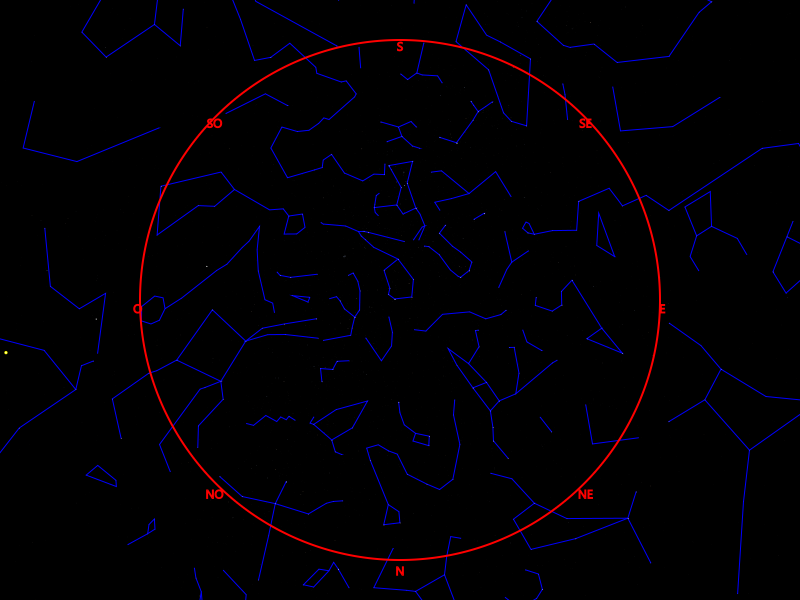
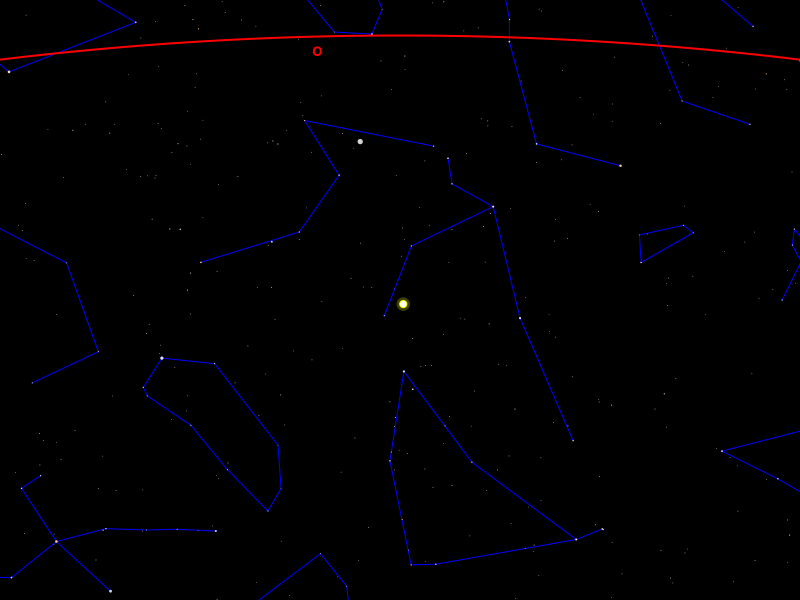
.

diff --git a/ProjetAstronomy/src/ch/epfl/rigel/gui/SkyCanvasPainter.java b/ProjetAstronomy/src/ch/epfl/rigel/gui/SkyCanvasPainter.java
@@ -48,8 +48,7 @@ public final class SkyCanvasPainter {
 	public void drawStars(ObservedSky observedSky, StereographicProjection projection, Transform transform) throws IOException {
 		//Transforming all stars positions accoridng to the affine transformation.
 		double[] transformedCoords = new double[observedSky.starPositions().length];
-		transform.transform2DPoints(observedSky.starPositions(), 0, transformedCoords, 0, transformedCoords.length/2);
-		
+		transform.transform2DPoints(observedSky.starPositions(), 0, transformedCoords, 0, transformedCoords.length/2);		
 		
 		//Drawing the asterisms.
 		
@@ -57,7 +56,9 @@ public final class SkyCanvasPainter {
 		ctx.setStroke(Color.BLUE);
 		//Set stroke width to 1.
 		ctx.setLineWidth(1);
+		
 		Bounds bound = canvas.getBoundsInLocal();
+		
 		for (Asterism asterism : observedSky.asterisms()) {
 		    boolean previousIscontained = false;
 		    ctx.beginPath();
@@ -87,14 +88,14 @@ public final class SkyCanvasPainter {
 			Point2D transformedSize = transform.deltaTransform(0, d);
 			
 			//Defining the star coordinates.
-			Double starX = transformedCoords[observedSky.stars().indexOf(star)*2];
-			Double starY = transformedCoords[observedSky.stars().indexOf(star)*2+ 1];
+			Double ajustedStarX = ajustedCoordinate(transformedCoords[observedSky.stars().indexOf(star)*2], transformedSize.magnitude());
+			Double ajustedStarY = ajustedCoordinate(transformedCoords[observedSky.stars().indexOf(star)*2+ 1], transformedSize.magnitude());
 
 			//Set the color to the star's one based on it's color temperature.
 			ctx.setFill(BlackBodyColor.colorForTemperature(star.colorTemperature()));
 			
 			//Drawing the star.
-			ctx.fillOval(starX, starY, transformedSize.magnitude(), transformedSize.magnitude());
+			ctx.fillOval(ajustedStarX, ajustedStarY, transformedSize.magnitude(), transformedSize.magnitude());
 		}
 	}
 	
@@ -120,11 +121,11 @@ public final class SkyCanvasPainter {
 			Point2D transformedSize = transform.deltaTransform(0,d);
 			
 			//Defining the planet's coordinates.
-			Double planetX = transformedCoords[observedSky.planets().indexOf(planet) * 2];
-			Double planetY = transformedCoords[observedSky.planets().indexOf(planet) * 2 + 1];
+			Double ajustedPlanetX = ajustedCoordinate(transformedCoords[observedSky.planets().indexOf(planet) * 2], transformedSize.magnitude());
+			Double ajustedPlanetY = ajustedCoordinate(transformedCoords[observedSky.planets().indexOf(planet) * 2 + 1], transformedSize.magnitude());
 			
 			//Drawing the planet on the canvas.
-			ctx.fillOval(planetX, planetY, transformedSize.magnitude(), transformedSize.magnitude());
+			ctx.fillOval(ajustedPlanetX, ajustedPlanetY, transformedSize.magnitude(), transformedSize.magnitude());
 		}
 		
 		
@@ -132,42 +133,45 @@ public final class SkyCanvasPainter {
 	
 	public void drawSun(ObservedSky observedSky, StereographicProjection projection, Transform transform) {
 		Point2D sunPos = transform.transform(observedSky.sunPosition().x(), observedSky.sunPosition().y());
-		double sunSize = projection.applyToAngle(observedSky.sun().angularSize()); //* (transform.getMxx() * 2);
-		double relSunSize = transform.deltaTransform(sunSize,0).magnitude();
+		double sunSize = projection.applyToAngle(observedSky.sun().angularSize()); 
+		double relativeSunSize = transform.deltaTransform(sunSize,0).magnitude();
+		double ajustedPosx = ajustedCoordinate(sunPos.getX(), relativeSunSize);
+        double ajustedPosy = ajustedCoordinate(sunPos.getY(), relativeSunSize);
 		
-		ctx.setFill(Color.YELLOW);
-        ctx.setGlobalAlpha(.25);
-		ctx.fillOval(sunPos.getX()-relSunSize*1.1, sunPos.getY()-relSunSize*1.1, relSunSize*2.2, relSunSize*2.2);
+		ctx.setFill(Color.YELLOW.deriveColor(0, 1, 1, 0.25));
+		ctx.fillOval(ajustedPosx - relativeSunSize*1.1, ajustedPosy - relativeSunSize*1.1, relativeSunSize*2.2, relativeSunSize*2.2);
 
-        ctx.setGlobalAlpha(1);
-        ctx.fillOval(sunPos.getX() - (relSunSize+2)/2 , sunPos.getY() - (relSunSize+2)/2, relSunSize+2, relSunSize+2);
+	    ctx.setFill(Color.YELLOW);
+        ctx.fillOval(ajustedPosx - (relativeSunSize+2)/2 , ajustedPosy - (relativeSunSize+2)/2, relativeSunSize+2, relativeSunSize+2);
 
 		ctx.setFill(Color.WHITE);
-		ctx.fillOval(sunPos.getX() - relSunSize/2, sunPos.getY() - relSunSize/2, relSunSize, relSunSize);
+		ctx.fillOval(ajustedPosx - relativeSunSize/2, ajustedPosy - relativeSunSize/2, relativeSunSize, relativeSunSize);
 	}
 	
 	public void drawMoon(ObservedSky observedSky, StereographicProjection projection, Transform transform) {
 		Point2D moonPos = transform.transform(observedSky.moonPosition().x(), observedSky.moonPosition().y());
 		double moonSize = projection.applyToAngle(observedSky.moon().angularSize());
-		Point2D relativeMoonSize = transform.deltaTransform(moonSize,moonSize);
+		Point2D relativeMoonSize = transform.deltaTransform(moonSize, 0);
+		double ajustedPosx = ajustedCoordinate(moonPos.getX(), relativeMoonSize.magnitude());
+		double ajustedPosy = ajustedCoordinate(moonPos.getY(), relativeMoonSize.magnitude());
         
 		ctx.setFill(Color.WHITE);
-		ctx.fillOval(moonPos.getX(), moonPos.getY(), relativeMoonSize.magnitude(), relativeMoonSize.magnitude());
+		ctx.fillOval(ajustedPosx, ajustedPosy, relativeMoonSize.magnitude(), relativeMoonSize.magnitude());
 	}
 	
 	public void drawHorizon(ObservedSky observedSky, StereographicProjection projection, Transform transform) {
 	    HorizontalCoordinates horizon = HorizontalCoordinates.ofDeg(0, 0);
 	    
-	    CartesianCoordinates horCoords = projection.circleCenterForParallel(horizon);
-	    Point2D transHorCoords = transform.transform(horCoords.x(), horCoords.y());
+	    CartesianCoordinates horizonCoords = projection.circleCenterForParallel(horizon);
+	    Point2D transHorizonCoords = transform.transform(horizonCoords.x(), horizonCoords.y());
 	    
-	    double horRadius = projection.circleRadiusForParallel(horizon);
-	    double transHorRadius = transform.deltaTransform(horRadius, 0).magnitude();
+	    double horizonRadius = projection.circleRadiusForParallel(horizon);
+	    double transHorizonRadius = transform.deltaTransform(horizonRadius, 0).magnitude();
 	    
 	    ctx.setStroke(Color.RED);
 	    ctx.setLineWidth(2);
-	    ctx.strokeOval(transHorCoords.getX() - transHorRadius, transHorCoords.getY() - transHorRadius,
-	            transHorRadius*2, transHorRadius*2);
+	    ctx.strokeOval(transHorizonCoords.getX() - transHorizonRadius, transHorizonCoords.getY() - transHorizonRadius,
+	            transHorizonRadius*2, transHorizonRadius*2);
 	    
 	    
 	    
@@ -175,11 +179,15 @@ public final class SkyCanvasPainter {
 	    ctx.setTextBaseline(VPos.BASELINE.TOP);
 	    ctx.setLineWidth(1);
 	    
-	    for(cardinalPoints card : cardinalPoints.values()) {
-	        CartesianCoordinates coord = card.getCartesianCoord(projection);
+	    for(cardinalPoints cardPoint : cardinalPoints.values()) {
+	        CartesianCoordinates coord = cardPoint.getCartesianCoord(projection);
 	        Point2D transCoord = transform.transform(coord.x(), coord.y());
-	        ctx.strokeText(card.getFrenchAbrev(), transCoord.getX(), transCoord.getY());
+	        ctx.strokeText(cardPoint.getFrenchAbrev(), transCoord.getX(), transCoord.getY());
 	    }
+	}
+	
+	private double ajustedCoordinate(double coordinate, double ovalWidth) {
+	    return coordinate - ovalWidth/2;
 	}
 	
 	private enum cardinalPoints{
@@ -193,15 +201,15 @@ public final class SkyCanvasPainter {
 	    NORTH_WEST("NO", HorizontalCoordinates.ofDeg(315, -.5));
 	    
 	    private final HorizontalCoordinates horCoord;
-	    private final String frenchAbrev;
+	    private final String frenchName;
 	    
 	    private cardinalPoints(String frenchAbrev, HorizontalCoordinates horCoord) {
 	        this.horCoord = horCoord;
-	        this.frenchAbrev = frenchAbrev;
+	        this.frenchName = frenchAbrev;
         }
 	    
 	    protected String getFrenchAbrev() {
-	        return frenchAbrev;
+	        return frenchName;
 	    }
 	    protected CartesianCoordinates getCartesianCoord(StereographicProjection projection) {
 	        return projection.apply(horCoord);

diff --git a/ProjetAstronomy/src/DrawSky.java b/ProjetAstronomy/src/DrawSky.java
@@ -37,11 +37,11 @@ public final class DrawSky extends Application {
       
       ZonedDateTime when =	ZonedDateTime.parse("2020-02-17T20:15:00+01:00");
       GeographicCoordinates where =	GeographicCoordinates.ofDeg(6.57, 46.52);
-      HorizontalCoordinates projCenter = HorizontalCoordinates.ofDeg(0, 90);
+      HorizontalCoordinates projCenter = HorizontalCoordinates.ofDeg(277, -23);
       StereographicProjection projection =	new StereographicProjection(projCenter);
       ObservedSky sky =	new ObservedSky(when, where, projection, catalogue);
       Canvas canvas =	new Canvas(800, 600);
-      Transform planeToCanvas =	Transform.affine(260, 0, 0, -260, 400, 300);
+      Transform planeToCanvas =	Transform.affine(1300, 0, 0, -1300, 400, 300);
       SkyCanvasPainter painter =new SkyCanvasPainter(canvas);
       
       painter.clear();
